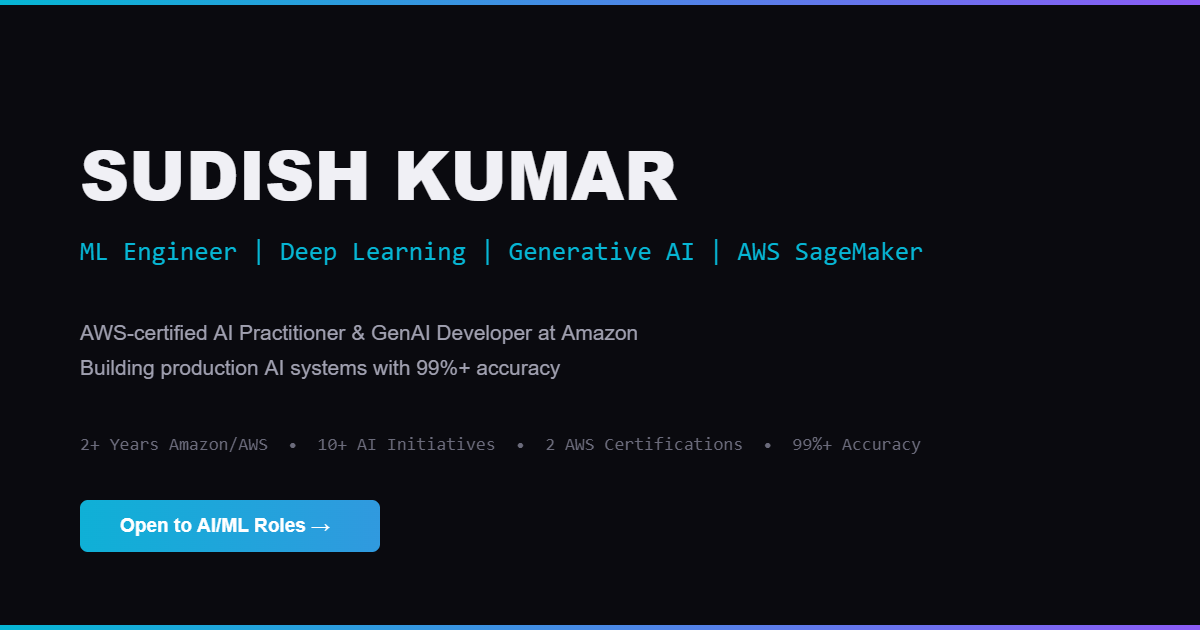
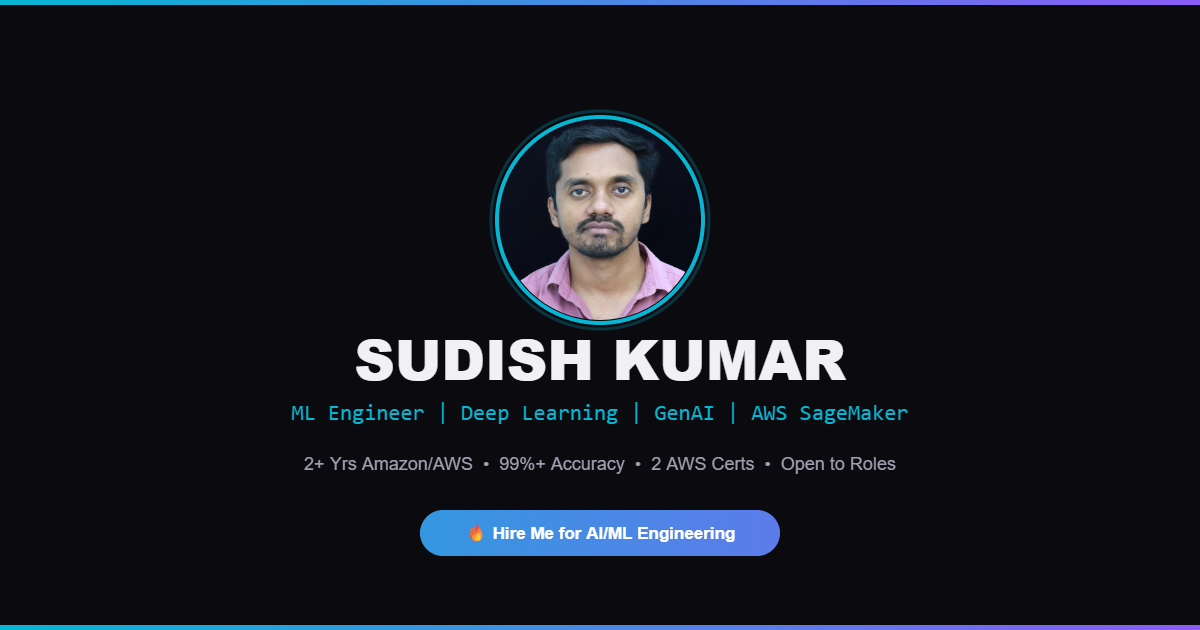
Update OG image with centered photo for mobile sharing

diff --git a/generate-og.html b/generate-og.html
@@ -1,62 +1,84 @@
-<!DOCTYPE html>
+<!DOCTYPE html>
 <html>
 <head><title>OG Image Generator</title></head>
-<body>
+<body style="background:#222;padding:20px">
 <canvas id="c" width="1200" height="630"></canvas>
+<p id="status" style="color:#06b6d4;font-size:18px;font-family:sans-serif">Generating...</p>
 <script>
 const c = document.getElementById('c');
 const ctx = c.getContext('2d');
+const img = new Image();
[1 lines of base64/hex data omitted]
+img.onload = function() {
+    // Background
+    ctx.fillStyle = '#0a0a0f';
+    ctx.fillRect(0, 0, 1200, 630);
 
-// Background
-ctx.fillStyle = '#0a0a0f';
-ctx.fillRect(0, 0, 1200, 630);
+    // Gradient bars top & bottom
+    const grad = ctx.createLinearGradient(0, 0, 1200, 0);
+    grad.addColorStop(0, '#06b6d4');
+    grad.addColorStop(1, '#8b5cf6');
+    ctx.fillStyle = grad;
+    ctx.fillRect(0, 0, 1200, 5);
+    ctx.fillRect(0, 625, 1200, 5);
 
-// Top gradient bar
-const grad = ctx.createLinearGradient(0, 0, 1200, 0);
-grad.addColorStop(0, '#06b6d4');
-grad.addColorStop(1, '#8b5cf6');
-ctx.fillStyle = grad;
-ctx.fillRect(0, 0, 1200, 5);
-ctx.fillRect(0, 625, 1200, 5);
+    // Circular photo - CENTERED and large
+    const px=600, py=220, pr=100;
+    ctx.save();
+    ctx.beginPath();
+    ctx.arc(px, py, pr, 0, Math.PI*2);
+    ctx.clip();
+    ctx.drawImage(img, px-pr, py-pr-25, pr*2, pr*2+50);
+    ctx.restore();
+    // Border
+    ctx.beginPath();
+    ctx.arc(px, py, pr+3, 0, Math.PI*2);
+    ctx.strokeStyle='#06b6d4';
+    ctx.lineWidth=4;
+    ctx.stroke();
+    // Glow
+    ctx.beginPath();
+    ctx.arc(px, py, pr+9, 0, Math.PI*2);
+    ctx.strokeStyle='rgba(6,182,212,0.25)';
+    ctx.lineWidth=3;
+    ctx.stroke();
 
-// Name
-ctx.font = '900 68px Inter, sans-serif';
-ctx.fillStyle = '#f0f0f5';
-ctx.fillText('SUDISH KUMAR', 80, 200);
+    // Name - centered below photo
+    ctx.textAlign='center';
+    ctx.font='900 56px sans-serif';
+    ctx.fillStyle='#f0f0f5';
+    ctx.fillText('SUDISH KUMAR', 600, 380);
 
-// Subtitle
-ctx.font = '500 26px monospace';
-ctx.fillStyle = '#06b6d4';
-ctx.fillText('ML Engineer | Deep Learning | Generative AI | AWS SageMaker', 80, 260);
+    // Subtitle
+    ctx.font='500 22px monospace';
+    ctx.fillStyle='#06b6d4';
+    ctx.fillText('ML Engineer | Deep Learning | GenAI | AWS SageMaker', 600, 420);
 
-// Description
-ctx.font = '400 21px Inter, sans-serif';
-ctx.fillStyle = '#a0a0b0';
-ctx.fillText('AWS-certified AI Practitioner & GenAI Developer at Amazon', 80, 340);
-ctx.fillText('Building production AI systems with 99%+ accuracy', 80, 375);
+    // Stats line
+    ctx.font='400 18px sans-serif';
+    ctx.fillStyle='#a0a0b0';
+    ctx.fillText('2+ Yrs Amazon/AWS  \u2022  99%+ Accuracy  \u2022  2 AWS Certs  \u2022  Open to Roles', 600, 470);
 
-// Stats
-ctx.font = '400 18px monospace';
-ctx.fillStyle = '#6b6b7b';
-ctx.fillText('2+ Years Amazon/AWS  •  10+ AI Initiatives  •  2 AWS Certifications  •  99%+ Accuracy', 80, 450);
+    // Badge
+    ctx.fillStyle = grad;
+    ctx.beginPath();
+    ctx.roundRect(420, 510, 360, 46, 23);
+    ctx.fill();
+    ctx.font='700 17px sans-serif';
+    ctx.fillStyle='#fff';
+    ctx.fillText('\uD83D\uDD25 Hire Me for AI/ML Engineering', 600, 539);
 
-// CTA Button
-ctx.fillStyle = grad;
-ctx.beginPath();
-ctx.roundRect(80, 500, 300, 52, 8);
-ctx.fill();
-ctx.font = '700 19px Inter, sans-serif';
-ctx.fillStyle = '#ffffff';
-ctx.fillText('Open to AI/ML Roles →', 120, 532);
+    ctx.textAlign='left';
 
-// Download
-const link = document.createElement('a');
-link.download = 'og-image.png';
-link.href = c.toDataURL('image/png');
-link.textContent = 'Download og-image.png';
-link.style.cssText = 'display:block;margin:20px;color:cyan;font-size:20px';
-document.body.appendChild(link);
-document.body.style.background = '#222';
+    // Download
+    const link=document.createElement('a');
+    link.download='og-image.png';
+    link.href=c.toDataURL('image/png');
+    link.textContent='Download og-image.png';
+    link.style='display:block;margin:20px;color:#06b6d4;font-size:22px;font-family:sans-serif';
+    document.body.appendChild(link);
+    document.getElementById('status').textContent='Done! Click below to download.';
+};
 </script>
 </body>
 </html>
